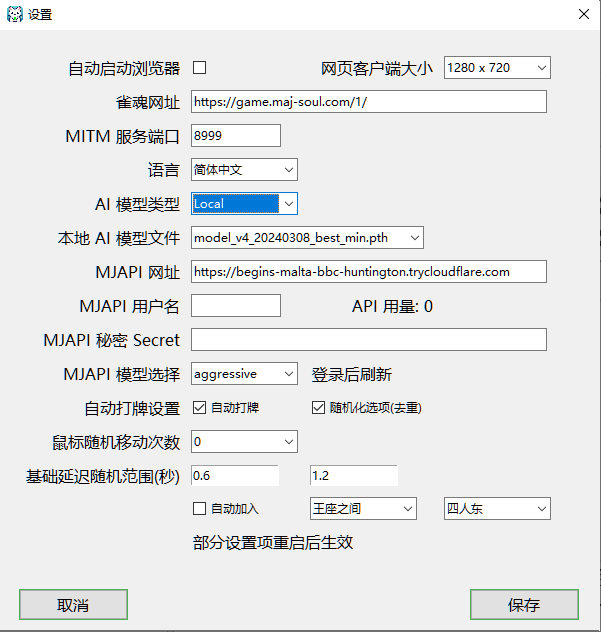
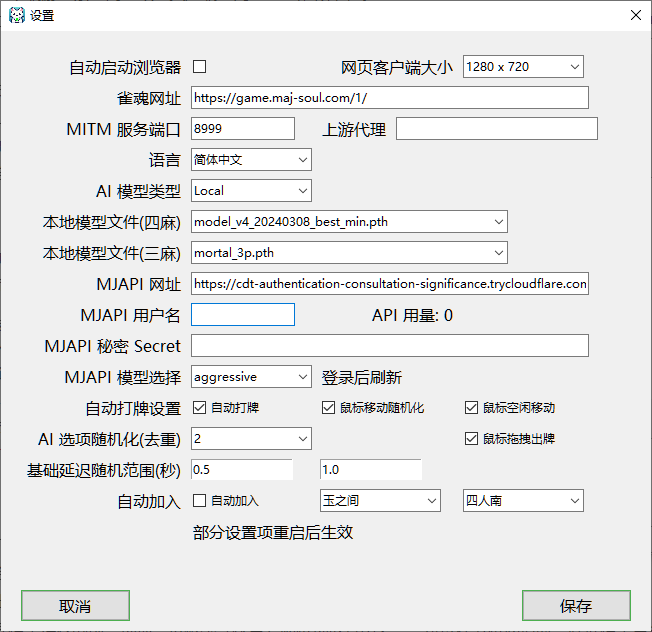
update help

diff --git a/help.md b/help.md
@@ -7,40 +7,43 @@ layout: page
 
 1. 下载压缩包并解压。
 2. 配置 AI 模型：
-
-   1. 使用本地(Local)模型，需要获取 Mortal 模型文件 （pth 文件），放到 'models' 目录中。本项目使用兼容 Akagi 的模型文件，获取模型请参见<a href="https://github.com/shinkuan/Akagi" target="_blank"> Akagi Github </a> 或者
+   1. 使用本地(Local)模型，需要获取 Mortal 模型文件 （pth 文件），放到 `models` 目录中。本项目使用兼容 Akagi 的模型文件，获取模型请参见<a href="https://github.com/shinkuan/Akagi" target="_blank"> Akagi Github </a>. 或者
    2. 使用在线模型（MJAPI 支持自动注册）
-4. 运行 MahjongCopilot，点击雀魂按钮，在内置浏览器中启动雀魂客户端。
+4. 运行 MahjongCopilot，点击左上方雀魂按钮，以启动内置浏览器和雀魂网页客户端。
 
 ### 使用帮助：
 
-1. 软件使用中间人 (MITM) 代理获取游戏客户端和服务器之间传输的信息。推荐使用内置的浏览器进行游戏。
-   
-   1. “上游代理”选项：如果你需要通过代理服务器连接雀魂服务器，可在此填写代理服务器的地址（如：```http://1.2.3.4:5555```）
-   2. 打开浏览器时，显示“不安全”，无法连接雀魂服务器时，可能是由于没有管理员权限运行程序导致 MITM 的证书安装失败。可以到 mitm_config 目录下，手动安装扩展名 cer 的证书至“根证书”目录。
+1. 软件使用中间人 (MITM) 代理获取游戏客户端和服务器之间传输的信息。推荐使用内置的浏览器进行游戏。   
+   1. “上游代理”选项：如果你需要通过代理服务器连接雀魂服务器，可在此填写代理服务器的地址（如：`http://1.2.3.4:5555`）
+   2. 打开浏览器时，显示“不安全”，无法连接雀魂服务器时，可能是由于没有管理员权限运行程序导致 MITM 的证书安装失败。可以到 `mitm_config` 目录下，手动安装扩展名为 .cer 的证书至“受信任的根证书颁发机构”目录下。
    3. 首次加载网页客户端，或游戏有更新时，会因为下载游戏素材而导致网页加载时间变长或疑似卡住。
-   4. 如果需要使用其他客户端，可以用代理软件 (如 Proxifier) 使客户端流量通过代理```http://localhost:{mitm端口}```访问。其他客户端暂不支持自动打牌。
-2. 界面和设置项说明：
-   
-   1. 网页 HUD 开关: 在网页上覆盖显示信息和 AI 选项。关闭此项可略微提升自动打牌流畅度。
-   2. AI 模型类型：可选择不同的模型，分别支持不同的麻将模式（三麻、四麻）
-      
-      - Local: 兼容 Akagi 的本地 Mortal 模型，支持三麻和四麻。需要获取模型文件(.pth文件)放到 models 目录下；三麻和四麻模型需要分别获取各自的模型文件。三麻模型，还需要额外下载libriichi3p相关文件库文件（pyd文件），放到libriichi3p目录下。模型支持的游戏类型会显示在状态栏，模型后的方括号内。详情请参见 Akagi Discord 中的说明。
-      - MJAPI: (作者 9ns4esyx) 开发的在线麻将 AI API. 使用 MJAPI 时，可以填写已有的用户名和密钥。或者，将用户名和密钥 (Secret) 留空，软件会自动注册新用户并登录。MJAPI 有不同模型可选择，登陆后会刷新模型选项，并显示 API 用量。4月13日更新的 MJAPI 地址：（临时域名有总连接数限制，而且不保证长久有效，之后也可能会变。）
-        临时域名：`https://cdt-authentication-consultation-significance.trycloudflare.com`
-        稳定域名：`https://mjai.7xcnnw11phu.eu.org`
-   3. 自动打牌设置：
-      
-      - 自动打牌：自动化操作的总开关，关闭后将停止所有自动化操作。
+   4. 如果使用其他客户端，可以用代理软件 (如 Proxifier) 使客户端流量通过代理`http://localhost:{mitm端口}`访问。其他客户端暂不支持自动打牌。
+2. 界面和设置项说明：   
+   1. 网页 HUD: 在网页上覆盖显示信息和 AI 选项。关闭此项可略微提升自动打牌流畅度。
+   2. 自动打牌：自动化操作的总开关，关闭后将停止所有自动化操作。
+   3. 自动加入：按设置中选择的级别和模式，自动加入下一局游戏；自动加入操作需要从主菜单或者游戏中开始。
+   4. 设置窗口中 - 自动启动浏览器：程序启动时，自动启动浏览器和游戏。
+   5. 网页客户端大小：浏览器中客户端的分辨率。
+   6. 雀魂网址：浏览器中打开雀魂的网址。
+   7. MITM服务端口和上游代理：见前述 MITM 帮助。
+   8. AI 模型类型：可选择不同的模型，分别支持不同的麻将模式（三麻、四麻）      
+      - Local: 兼容 Akagi 的本地 Mortal 模型。三麻和四麻模式需要分别获取模型文件(.pth文件)放到 `models` 目录下，并且在设置中，选择使用模型文件；三麻模式还需要额外获取 libriichi3p 相关库文件（pyd文件），放到 `libriichi3p` 目录下。模型支持的游戏类型会显示在状态栏，模型后的方括号内（例如：模型:Local[4P,3P]）。关于模型文件详情，请参见Akagi 作者 shinkuan 的 <a href="https://discord.com/invite/Z2wjXUK8bN"> Discord 频道 </a>中的说明。
+      - MJAPI: (作者 9ns4esyx) 开发的在线麻将 AI API. 使用 MJAPI 时，可以填写已有的用户名和密钥。或者，将用户名和密钥 (Secret) 留空，软件会自动注册新用户并登录。MJAPI 有不同模型可选择，登陆后会刷新模型选项，并显示 API 用量。  
+      4月13日更新的 MJAPI 地址：（临时域名有总连接数限制，而且不保证长久有效，之后也可能会变。服务器在国外，不同运营商的网络连通性不一，请自己测试）  
+      临时域名：`https://cdt-authentication-consultation-significance.trycloudflare.com`  
+      稳定域名：`https://mjai.7xcnnw11phu.eu.org`
+   9.  自动打牌设置： 
+      - 自动打牌：同主界面“自动打牌”。
       - 鼠标移动随机化：鼠标点击前，随机移动几次，避免被检测为自动化操作。还有概率以鼠标拖拽出牌。
       - 鼠标空闲移动：鼠标空闲时（比如他人回合）一定概率随机移动。
       - 鼠标拖拽出牌：使用鼠标拖动代替点击来出牌。
       - AI选项随机化（去重）：自动打牌时，根据模型推荐的前三选项，按概率（权重）随机选取其中之一。可以在分析牌谱时，降低模型重合率。0 为关闭（仅选择权重最高项），5 为最高（按概率权重选择），1-4 的随机性位于中间。计算方式：取原概率的(5/n)次方，再归一概率，按概率选择。
       - 基础延迟随机范围：自动打牌前的延迟。根据场况和打的牌，会在基础延迟上增加额外延迟（例如：东家第一巡会加几秒钟延迟，让理牌动画完成）。
-      - 自动加入：自动加入下一局游戏，根据选择的级别和游戏模式。自动加入操作需要从主菜单或者游戏中开始。
-3. 状态栏中，主程序和浏览器均会附加显示刷新率作为性能参考。通常数值在 100 以上说明程序运行流畅。进行自动打牌操作时，浏览器刷新率会下降。
-4. 在帮助窗口中，可以进行自动更新（暂时支持 Windows）。Mac 用户需要自助从 Python 源代码运行本程序。
-5. 长时间使用自动打牌可能会导致账户被封禁。关闭自动打牌和 HUD 显示功能可以减少账号封禁风险。请合法使用本程序。使用者需要承担潜在风险和责任。
+      - 自动加入：同主界面开关，设置是否自动加入游戏，加入的级别和模式。  
+![Settings](\assets\images\settings.png){: height="50"}
+1. 状态栏中，主程序和浏览器均会附加显示刷新率作为性能参考。通常数值在 100 以上说明程序运行流畅。进行自动打牌操作时，浏览器刷新率会下降。如果程序或 AI 发生错误，状态栏中会显示。
+2. 在帮助窗口中，可以进行自动更新（暂时支持 Windows）。Mac 用户需要自助从 Python 源代码运行本程序，请参见本项目 Github。
+3. 账号安全提示：长时间使用自动打牌，以及牌谱 AI 重合率高，可能会导致账户被封禁。关闭自动打牌和 HUD 显示功能，并且打牌选择与 AI 推荐不同的选项，可以减少账号封禁风险。请将本程序用于学习和研究目的。使用者需要承担潜在风险和责任。
 
 ## 鸣谢 / Credit
 
